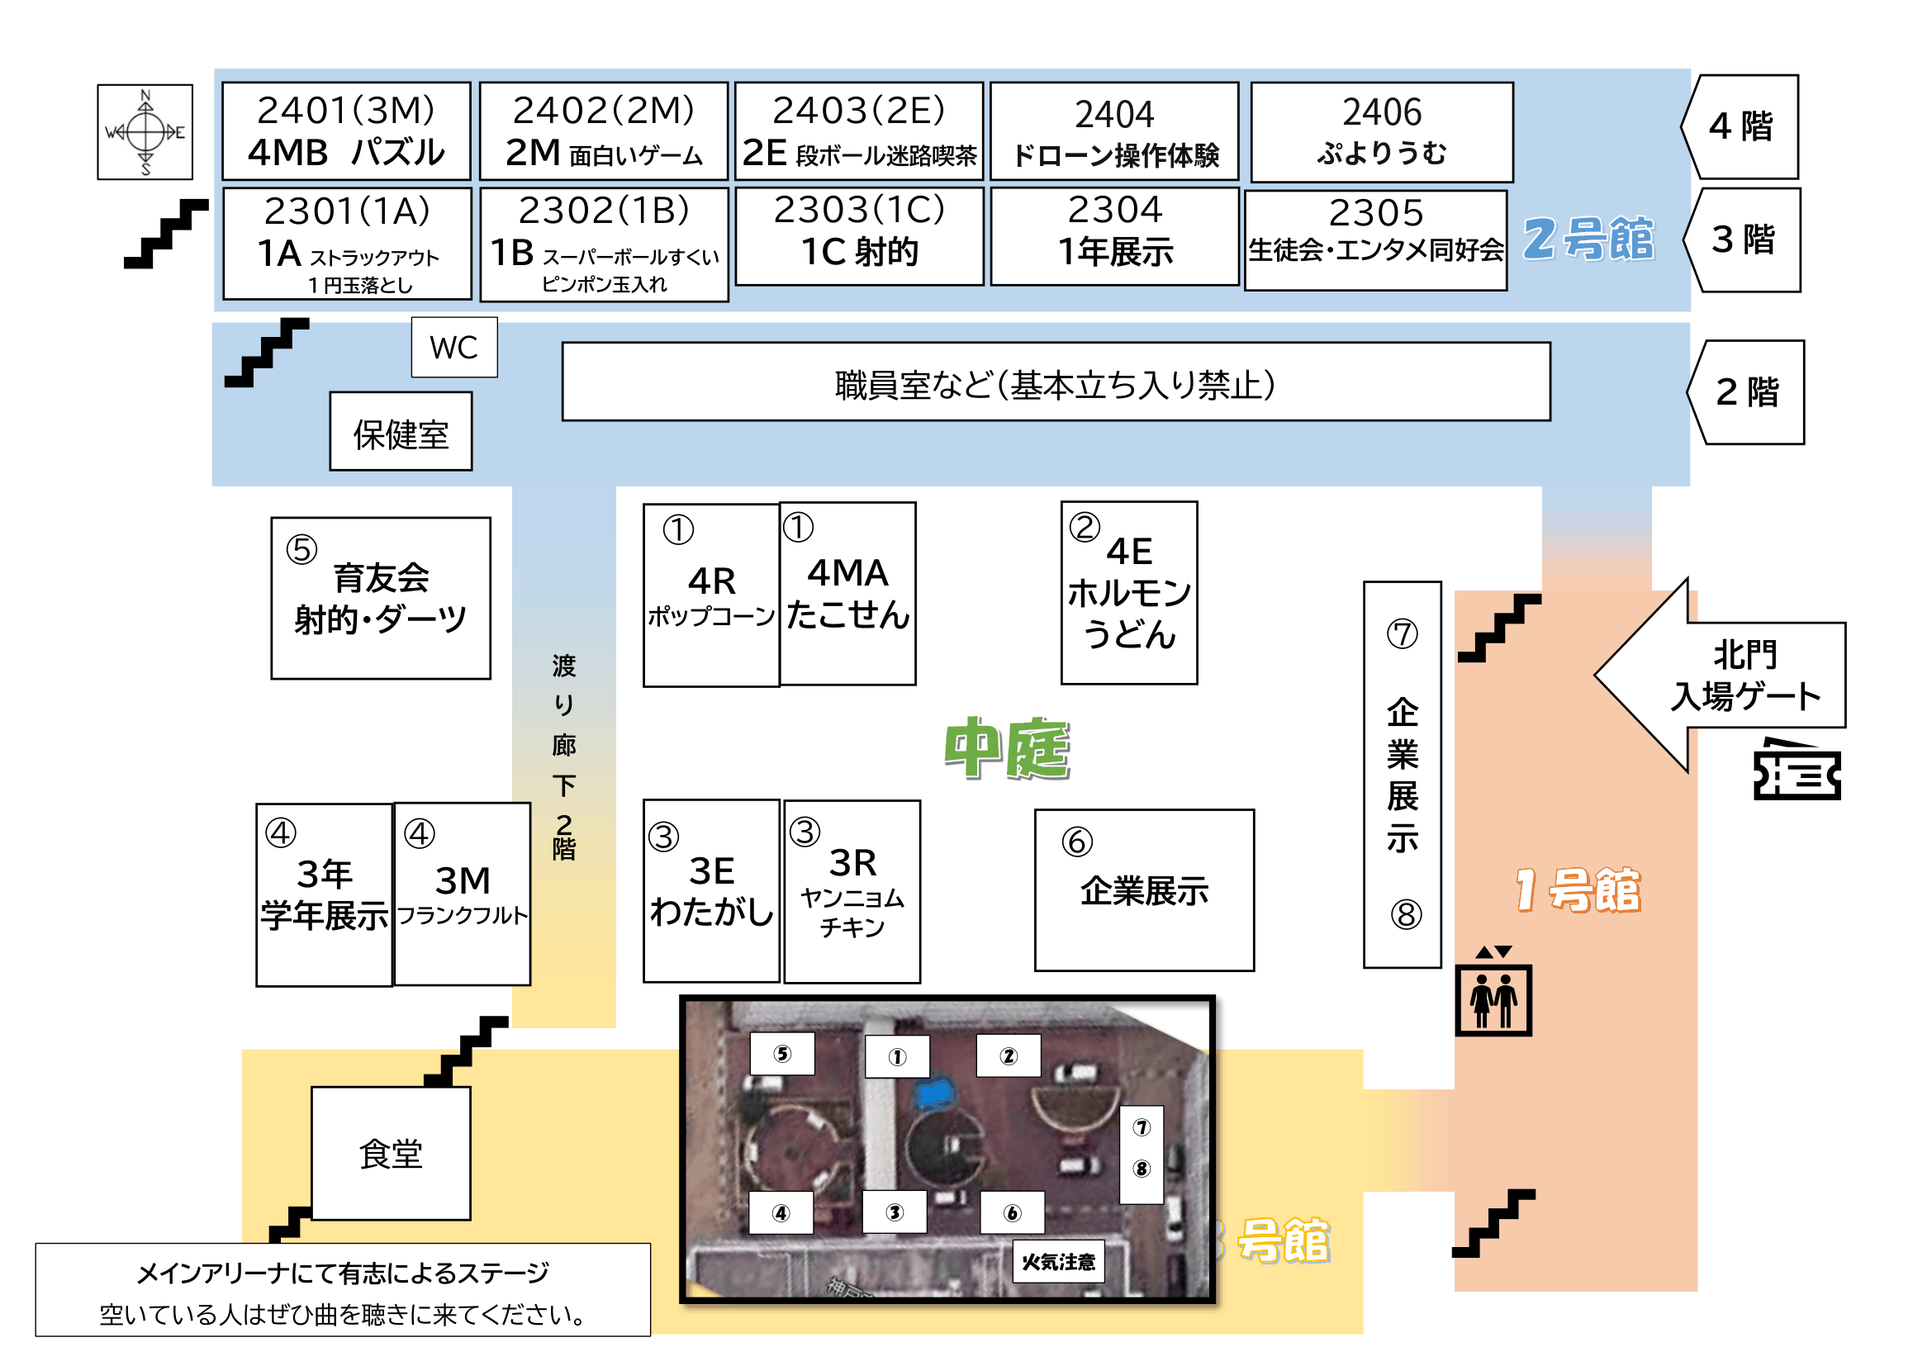
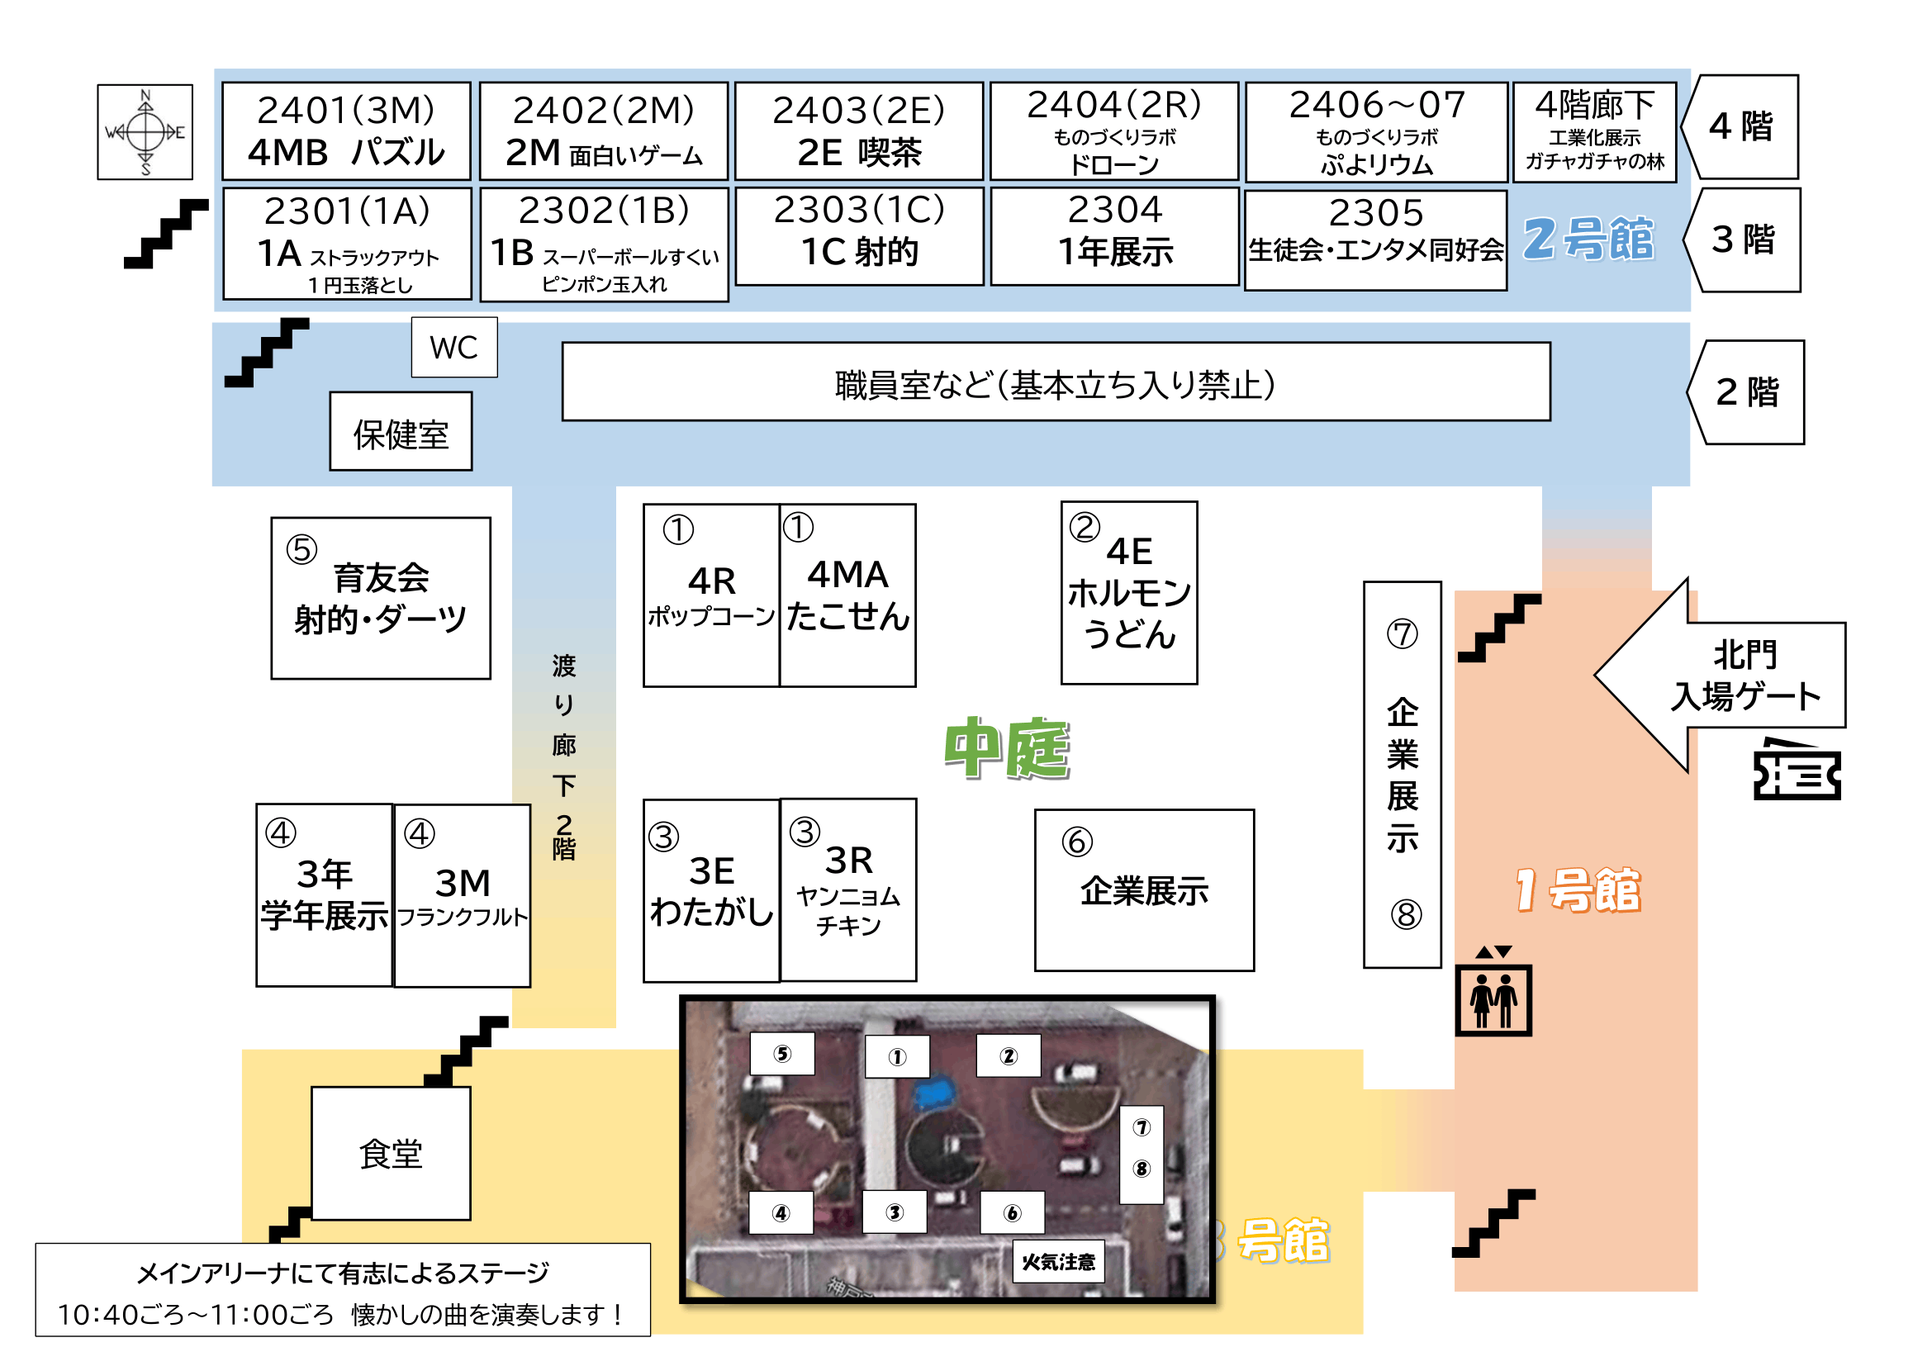
新しい会場マップに差し替え、パンフレットの店名・紹介文・ステージを反映
Claude-Session: https://claude.ai/code/session_01DkuzA22K9hD4YE4Jma8uGE

diff --git a/shops.js b/shops.js
@@ -6,29 +6,79 @@
 //   desc  : 紹介文。空 "" のときは「紹介文は準備中です」と表示
 //   menu  : [["品名","値段"], ...]。不要なら []
 //   note  : 時間・注意など。不要なら ""
-//   x, y  : 会場マップ上の位置（画像の左上からの%）
+//   x, y  : 会場マップ上の位置（画像の左上からの%）。同じ x, y の出し物は地図で1つの印にまとまります
 //   ※ title の中に "|" を入れると、そこで改行してよい区切りになります（画面には出ません）
 window.SHOPS = [
-  {rally:null, title:"文化祭本部", by:"生徒会・エンタメ同好会", at:"2号館3階 2305", cat:"info", desc:"生徒会が運営する紅華祭の本部です。道に迷ったとき、落とし物や忘れ物、気分が悪くなったときなど、困ったことがあれば気軽に声をかけてください。\nスタンプラリーの景品もここで受け取れます。教室の9か所のうち5か所のスタンプを集めたら、スタンプの画面を見せてください。", menu:[], note:"エンタメ同好会も同じ教室で出し物をしています。", x:77.5, y:14.8},
-  {rally:"1A", title:"ストラックアウト・1円玉落とし", by:"1A", at:"2号館3階 2301", cat:"play", desc:"", menu:[], note:"", x:23.8, y:14.8},
-  {rally:"1B", title:"スーパーボールすくい・ピンポン玉入れ", by:"1B", at:"2号館3階 2302", cat:"play", desc:"", menu:[], note:"", x:37.1, y:14.8},
-  {rally:"1C", title:"射的", by:"1C", at:"2号館3階 2303", cat:"play", desc:"", menu:[], note:"", x:50.3, y:14.8},
-  {rally:"2M", title:"面白いゲーム", by:"2M", at:"2号館4階 2402", cat:"play", desc:"", menu:[], note:"", x:37.1, y:7.0},
-  {rally:"2E", title:"段ボール迷路喫茶", by:"2E", at:"2号館4階 2403", cat:"play", desc:"", menu:[], note:"", x:50.3, y:7.0},
-  {rally:"2R", stamp:"ドローン", title:"ものづくりラボ「ドローン操作体験」", by:"ロボティクスコース", at:"2号館4階 2404", cat:"play", desc:"ロボティクスコースの実習で使っているドローンを、実際に操縦できます。\n体験した人には、4階廊下の「ガチャガチャの林」で使えるコインを1枚プレゼント！ ドローンを飛ばして、ガチャも回そう！", menu:[["ドローン操作体験（約5分）","300円"]], note:"当日先着の予約制です。", x:63.6, y:7.0},
-  {rally:null, title:"工業科展示", by:"工業科", at:"2号館4階 廊下", cat:"show", desc:"工業科の機械コース・電気コース・ロボティクスコースの各学年が、ふだんの授業や実習で取り組んでいる内容を紹介します。ものづくりの基礎から、それぞれのコースで学ぶ専門的な技術まで、実際につくった作品や学びの様子を展示しています。工科高校での毎日を、ぜひのぞいてみてください。", menu:[], note:"", x:84.0, y:9.5},
-  {rally:null, title:"ガチャガチャの林", by:"2R", at:"2号館4階 廊下", cat:"play", desc:"3Dプリンターで印刷したパーツを、クラスのみんなで組み立てたガチャガチャが並ぶ「ガチャガチャの林」。景品には、ここでしか手に入らない限定グッズも入っています。何が出るかはお楽しみに！\n2404教室の「ドローン操作体験」をした人には、ガチャガチャに使えるコインを1枚プレゼントします。", menu:[["ガチャガチャ（1回）","200円"]], note:"", x:84.0, y:9.5},
-  {rally:null, title:"フランクフルト", by:"3M", at:"中庭 テント④", cat:"food", desc:"", menu:[], note:"", x:26.2, y:60.6},
-  {rally:null, title:"わたがし", by:"3E", at:"中庭 テント③", cat:"food", desc:"", menu:[], note:"", x:39.1, y:60.4},
-  {rally:null, title:"ヤンニョムチキン", by:"3R", at:"中庭 テント③", cat:"food", desc:"", menu:[], note:"", x:46.4, y:60.4},
-  {rally:null, title:"たこせん", by:"4MA", at:"中庭 テント①", cat:"food", desc:"", menu:[], note:"", x:46.1, y:38.7},
-  {rally:"4MB", title:"パズル", by:"4MB", at:"2号館4階 2401", cat:"play", desc:"", menu:[], note:"", x:23.8, y:7.0},
-  {rally:null, title:"ホルモンうどん", by:"4E", at:"中庭 テント②", cat:"food", desc:"", menu:[], note:"", x:60.7, y:38.7},
-  {rally:null, title:"ポップコーン", by:"4R", at:"中庭 テント①", cat:"food", desc:"", menu:[], note:"", x:39.1, y:38.7},
-  {rally:"工業科", stamp:"ぷよりうむ", title:"ものづくりラボ「ぷよりうむ」", by:"工業科", at:"2号館4階 2406", cat:"play", desc:"3Dプリンターでつくった海のいきものたちを、ぷよぷよのボールに入れて、自分だけのアクアリウム「ぷよりうむ」をつくるワークショップです。どのいきものを入れるかは、あなた次第。\nさらに、下から照らせるLEDライト台もセットで購入できます！", menu:[["ぷよりうむ（1人）","300円"],["ぷよりうむ＋LEDライト台セット","500円"]], note:"体験の所要時間は約30分です。数に限りがあり、当日先着の予約制です。気になる方はお早めに！", x:71.5, y:7.0},
-  {rally:"1年学年展示", stamp:"1年展示", title:"1年展示", by:"1年生", at:"2号館3階 2304", cat:"show", desc:"", menu:[], note:"", x:63.6, y:14.8},
-  {rally:null, title:"3年学年展示", by:"3年生", at:"中庭 テント④", cat:"show", desc:"", menu:[], note:"", x:19.0, y:60.6},
+  // ===== 2号館3階 =====
+  {rally:null, title:"文化祭本部・生徒会", by:"生徒会", at:"2号館3階 2305", cat:"info",
+   desc:"生徒会が運営する紅華祭の本部です。道に迷ったとき、落とし物や忘れ物、気分が悪くなったときなど、困ったことがあれば気軽に声をかけてください。スタンプラリーの景品もここで受け取れます。教室の9か所のうち5か所のスタンプを集めたら、スタンプの画面を見せてください。\n生徒会の出し物は、デジタルスタンプラリー、バルーンアートの展示、来場者とともに作る夢あふれるツリー、パワーチャレンジャーの体験、文化祭の感想ボックスなど。みなさんの心も満タンにします！",
+   menu:[], note:"パワーチャレンジャーの体験は 11:00〜11:30、13:00〜13:30 の時間限定です。", x:77.5, y:14.8},
+  {rally:null, title:"アクション動画の上映", by:"エンタメ同好会", at:"2号館3階 2305", cat:"show",
+   desc:"私たちエンターテインメント同好会は、去年から新しくスタートした同好会です。去年入部した部員たちがレベルアップして、アクション動画に出演します！ 去年より出演者が多く、難しいアクションにも挑戦しました。\n2305教室で放映中です。部員全員の頑張りを、ぜひその目で見てください！",
+   menu:[], note:"", x:77.5, y:14.8},
+  {rally:"1A", title:"えんにち横丁「ストラックアウト・1円玉落とし」", by:"1A（1年生）", at:"2号館3階 2301", cat:"play",
+   desc:"1年生の「えんにち横丁」は、まずは1Aの教室で受付！ スタンプカードをもらって、ストラックアウト・1円玉落とし・スーパーボールすくい・ピンポン玉入れ・射的の5つの縁日ゲームに挑戦しよう！\nゲームを回ってオリジナルスタンプと得点をゲット。集めた合計得点に応じて、すてきな景品をプレゼント！ 友達や家族と一緒に、文化祭だけの楽しい縁日気分を満喫しよう！",
+   menu:[["えんにち横丁（5つのゲーム）","500円"]], note:"受付は1Aの教室（2301）です。", x:23.8, y:14.8},
+  {rally:"1B", title:"えんにち横丁「スーパーボールすくい・ピンポン玉入れ」", by:"1B（1年生）", at:"2号館3階 2302", cat:"play",
+   desc:"1年生の「えんにち横丁」の縁日ゲームです。まずは1Aの教室で受付をして、スタンプカードをもらってから遊んでね！ 5つのゲームを回って得点を集めると、合計得点に応じてすてきな景品をプレゼント！",
+   menu:[["えんにち横丁（5つのゲーム）","500円"]], note:"受付は1Aの教室（2301）です。", x:37.1, y:14.8},
+  {rally:"1C", title:"えんにち横丁「射的」", by:"1C（1年生）", at:"2号館3階 2303", cat:"play",
+   desc:"1年生の「えんにち横丁」の縁日ゲームです。まずは1Aの教室で受付をして、スタンプカードをもらってから遊んでね！ 5つのゲームを回って得点を集めると、合計得点に応じてすてきな景品をプレゼント！",
+   menu:[["えんにち横丁（5つのゲーム）","500円"]], note:"受付は1Aの教室（2301）です。", x:50.3, y:14.8},
+  {rally:"1年学年展示", stamp:"1年展示", title:"1年青春展示「1枚の写真、1つの思い出」", by:"1年生", at:"2号館3階 2304", cat:"show",
+   desc:"青春の1ページをのぞいてみませんか？ 高校生活の中で生まれた笑顔や思い出、そして仲間との絆。写真・映像・プロフィール帳を通して、私たちの青春をお届けします。",
+   menu:[], note:"", x:63.6, y:14.8},
+
+  // ===== 2号館4階 =====
+  {rally:"4MB", title:"パズルにチャレンジ（The F & The T）", by:"4MB", at:"2号館4階 2401", cat:"play",
+   desc:"6つのピースを組み合わせて、課題のシルエットを作ってみよう。4つのピースのパズルも用意しています。2つのパズル、解けるかな？",
+   menu:[], note:"", x:23.8, y:7.0},
+  {rally:"2M", title:"テーマパークスクール", by:"2M", at:"2号館4階 2402", cat:"play",
+   desc:"誰もが一度は経験したことがある、某テーマパークのゲームです。簡単そうで難しい!? 取った点数に応じて、景品を自分で選ぼう！",
+   menu:[["1プレイ","100円"]], note:"", x:37.1, y:7.0},
+  {rally:"2E", title:"喫茶 こうちゃん", by:"2E", at:"2号館4階 2403", cat:"food",
+   desc:"コーヒーから炭酸飲料まで、ほとんどのドリンクを100円で販売中！ 特別なドリンクやお菓子もあります。最高のサービスでおもてなしします。文化祭の休憩は「喫茶こうちゃん」で！",
+   menu:[["ドリンク（ほとんどの種類）","100円"]], note:"他店の商品の持ち込みOK（1人1オーダー制）です。", x:50.3, y:7.0},
+  {rally:"2R", stamp:"ドローン", title:"ものづくりラボ「ドローン操作体験」", by:"ロボティクスコース", at:"2号館4階 2404", cat:"play",
+   desc:"ロボティクスコースの実習で使っているドローンを、実際に操縦できます。\n体験した人には、4階廊下の「ガチャガチャの林」で使えるコインを1枚プレゼント！ ドローンを飛ばして、ガチャも回そう！",
+   menu:[["ドローン操作体験（約5分）","300円"]], note:"当日先着の予約制です。", x:63.6, y:7.0},
+  {rally:"工業科", stamp:"ぷよリウム", title:"ものづくりラボ「ぷよリウム」", by:"工業科", at:"2号館4階 2406", cat:"play",
+   desc:"〜ぷよぷよでつくる、キミだけの小さな世界〜\nカラフルなぷよぷよボールと、3Dプリンターで印刷したフィギュアや飾りを使って、自分だけの「ぷよリウム」をつくろう！ 世界にひとつだけの、キラキラかわいい作品づくりを楽しもう！\nさらに、下から照らせるLEDライト台もセットで購入できます！",
+   menu:[["ぷよリウム（1人）","300円"],["ぷよリウム＋LEDライト台セット","500円"]], note:"体験の所要時間は約30分です。数に限りがあり、当日先着の予約制です。気になる方はお早めに！", x:71.5, y:7.0},
+  {rally:null, title:"工業科展示", by:"工業科", at:"2号館4階 廊下", cat:"show",
+   desc:"工業科の機械コース・電気コース・ロボティクスコースの各学年が、ふだんの授業や実習で取り組んでいる内容を紹介します。ものづくりの基礎から、それぞれのコースで学ぶ専門的な技術まで、実際につくった作品や学びの様子を展示しています。工科高校での毎日を、ぜひのぞいてみてください。",
+   menu:[], note:"", x:85.5, y:7.0},
+  {rally:null, title:"ガチャガチャの林", by:"2R", at:"2号館4階 廊下", cat:"play",
+   desc:"3Dプリンターで印刷したパーツを、クラスのみんなで組み立てたガチャガチャが並ぶ「ガチャガチャの林」。景品には、ここでしか手に入らない限定グッズも入っています。何が出るかはお楽しみに！\n2404教室の「ドローン操作体験」をした人には、ガチャガチャに使えるコインを1枚プレゼントします。",
+   menu:[["ガチャガチャ（1回）","200円"]], note:"", x:85.5, y:7.0},
+
+  // ===== 中庭 =====
+  {rally:null, title:"フランクフルト命", by:"3M", at:"中庭 テント④", cat:"food",
+   desc:"外はカリッと、中はジュワッとジューシー！ 文化祭の定番、大人気フランクフルトを焼き立てでお届けします。小腹がすいたらまずはここへ！",
+   menu:[["フランクフルト","300円"]], note:"", x:26.2, y:60.6},
+  {rally:null, title:"わたるの綿菓子", by:"3E", at:"中庭 テント③", cat:"food",
+   desc:"フワフワの綿菓子いかがですか？ マンゴー・メロン・ラムネ・いちごの4種類の色と味から選べますよ！",
+   menu:[["綿菓子（1本）","300円"]], note:"", x:39.1, y:60.4},
+  {rally:null, title:"鳥貧民", by:"3R", at:"中庭 テント③", cat:"food",
+   desc:"外はサクサク、中はジューシー。とびっきりのチキンに独特の旨辛タレを絡めた、本格ヤンニョムチキン！ 一度食べたら手が止まらなくなること間違いなし！",
+   menu:[], note:"", x:46.4, y:60.4},
+  {rally:null, title:"たこゼリヤ", by:"4MA", at:"中庭 テント①", cat:"food",
+   desc:"祭りといったら、たこせん！ ソースとマヨネーズで味付けしています。文化祭のお供にいかがですか？",
+   menu:[["たこせん（1枚）","150円"]], note:"", x:46.1, y:38.7},
+  {rally:null, title:"ホルモンうどん PartⅢ", by:"4E", at:"中庭 テント②", cat:"food",
+   desc:"「でえれぇ」うめぇ、岡山・津山のホルモンうどん、こうてちょうでぇ。中庭で販売しています。待ってまーす！",
+   menu:[["ホルモンうどん（1パック）","400円"]], note:"", x:60.7, y:38.7},
+  {rally:null, title:"POP TSUNEO（ポップツネオ）", by:"4R", at:"中庭 渡り廊下の下", cat:"food",
+   desc:"今年もやります。豆のはじける音と、キャラメルの甘い香りが食欲をそそる、本格キャラメルポップコーン店です。どうぞお越しください！",
+   menu:[["キャラメルポップコーン（1カップ）","350円"]], note:"", x:29.2, y:45.0},
+  {rally:null, title:"3年学年展示", by:"3年生", at:"中庭 テント④", cat:"show",
+   desc:"北海道修学旅行の思い出写真展示と、BIGベアとの記念写真コーナーです。",
+   menu:[], note:"", x:19.0, y:60.6},
   {rally:null, title:"射的・ダーツ", by:"育友会", at:"中庭 テント⑤", cat:"play", desc:"", menu:[], note:"", x:24.1, y:39.7},
   {rally:null, title:"企業展示", by:"企業", at:"中庭 テント⑥・⑦・⑧", cat:"show", desc:"", menu:[], note:"", x:63.7, y:61.0},
-  {rally:null, title:"有志ステージ", by:"有志", at:"メインアリーナ", cat:"show", desc:"有志によるステージです。空いている人はぜひ曲を聴きに来てください。", menu:[], note:"", x:32.4, y:92.8}
+
+  // ===== メインアリーナ =====
+  {rally:null, title:"有志バンド「GarageBandを使ってみた」", by:"有志", at:"メインアリーナ", cat:"show",
+   desc:"iPadに入っている音楽アプリ「GarageBand」。なかなか面白く使えます。今回は70〜80年代の曲で遊んでみました。ぜひメインアリーナに聴きに来てください！",
+   menu:[], note:"10:40ごろ〜11:00ごろの1回きりです。", x:32.4, y:92.8}
 ];

diff --git a/festival.js b/festival.js
@@ -14,6 +14,7 @@ window.FEST = {
   ],
   greeting: { from: "", text: "" },   // あいさつ。例：{from:"文化祭実行委員長", text:"…"}
   stage: [                 // ステージのタイムテーブル。例：{time:"10:00", title:"吹奏楽部 演奏", place:"メインアリーナ"}
+    { time: "10:40ごろ", title: "有志バンド「GarageBandを使ってみた」（〜11:00ごろ・1回きり）", place: "メインアリーナ" }
   ],
   notices: [               // ご来場の方へ
     { title: "困ったときは", text: "2号館3階 2305の文化祭本部（生徒会）へ。スタンプラリーの景品もここで受け取れます。" },
